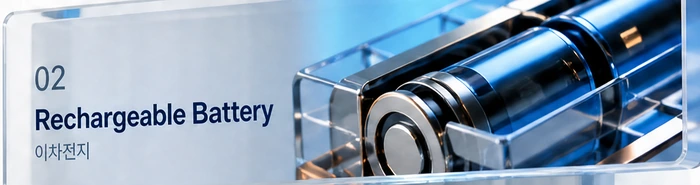
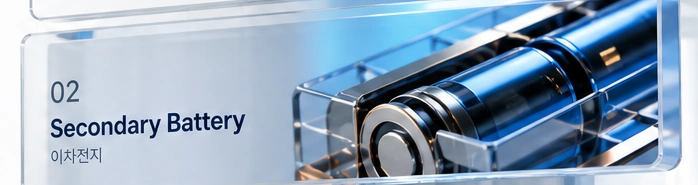
fix: 모바일 교수진 카드 최적화(사진 미크롭 비율, 성함·주제 집중, 프로필/연구실 1줄화) 및 PC 이차전지 순정 복원, 헤더 영문뱃지 제거 (v3.4)

diff --git a/assets/css/style.css b/assets/css/style.css
@@ -709,6 +709,9 @@ input[type="search"]::-webkit-search-decoration { -webkit-appearance: none; appe
 .lab-contact svg, .lab-contact i { width: 12px; height: 12px; flex-shrink: 0; color: #6B7280; }
 .lab-contact a { overflow: hidden; text-overflow: ellipsis; white-space: nowrap; }
 .lab-contact a:hover { color: var(--navy); text-decoration: underline; }
+.btn-label-desktop { display: inline; }
+.btn-label-mobile { display: none; }
+
 .lab-actions {
   display: flex; align-items: center; justify-content: space-between; gap: 8px;
   margin-top: auto; padding-top: 12px; border-top: 1px solid var(--line-soft);
@@ -1312,14 +1315,88 @@ body.is-admin .notice-head .m { display: block; text-align: right; }
     grid-template-columns: repeat(2, minmax(0, 1fr)) !important;
     gap: 12px;
   }
-  .lab-photo { height: 135px; }
-  .lab-body { padding: 12px 10px; }
-  .lab-name { font-size: 14.5px; }
-  .lab-title { font-size: 11px; margin-bottom: 4px; }
-  .lab-room { font-size: 10.5px; margin-bottom: 6px; }
-  .lab-tags { gap: 3px; margin-bottom: 6px; }
-  .lab-tag { font-size: 9.5px; padding: 1px 5px; }
-  .lab-action { font-size: 11px; margin-top: 6px; padding-top: 6px; }
+  .btn-label-desktop { display: none !important; }
+  .btn-label-mobile { display: inline !important; }
+
+  /* Mobile Faculty Cards: Portrait aspect ratio so face is never cut off */
+  .lab-card {
+    display: flex;
+    flex-direction: column;
+    height: 100%;
+  }
+  .lab-photo {
+    height: auto !important;
+    aspect-ratio: 1 / 1.15 !important;
+    border-radius: 4px 4px 0 0;
+  }
+  .lab-photo img {
+    width: 100%;
+    height: 100%;
+    object-fit: cover !important;
+    object-position: top center !important;
+  }
+  .lab-info {
+    padding: 10px 9px 12px !important;
+    gap: 4px !important;
+    display: flex;
+    flex-direction: column;
+    flex: 1;
+  }
+  .lab-name-row {
+    display: flex;
+    align-items: baseline;
+    gap: 4px;
+    flex-wrap: wrap;
+  }
+  .lab-name {
+    font-size: 14.5px !important;
+    font-weight: 700 !important;
+    letter-spacing: -0.02em;
+  }
+  .lab-title {
+    font-size: 11px !important;
+    color: #64748b !important;
+  }
+  .lab-field {
+    font-size: 11px !important;
+    line-height: 1.45 !important;
+    color: #4b5563 !important;
+    display: -webkit-box !important;
+    -webkit-line-clamp: 2 !important;
+    -webkit-box-orient: vertical !important;
+    overflow: hidden !important;
+    min-height: 32px;
+    margin-bottom: 2px;
+  }
+  /* Hide minor details on mobile so only name and research topic show */
+  .lab-card .lab-lab,
+  .lab-card .lab-contact {
+    display: none !important;
+  }
+  /* Actions: [프로필 →] [연구실 ↗] on 1 neat line */
+  .lab-actions {
+    display: flex !important;
+    flex-direction: row !important;
+    align-items: center !important;
+    justify-content: space-between !important;
+    gap: 4px !important;
+    margin-top: auto !important;
+    padding-top: 8px !important;
+    border-top: 1px solid #f1f5f9 !important;
+  }
+  .lab-more,
+  .lab-home {
+    font-size: 10.5px !important;
+    padding: 3px 5px !important;
+    white-space: nowrap !important;
+    letter-spacing: -0.02em !important;
+    flex-shrink: 0;
+  }
+  .lab-more svg, .lab-more i,
+  .lab-home svg, .lab-home i {
+    width: 11px !important;
+    height: 11px !important;
+  }
   .career-grid { grid-template-columns: repeat(2, minmax(0, 1fr)); gap: 10px; }
   .career-item { padding: 14px 12px; }
   .career-item h4 { font-size: 13.5px; margin-bottom: 4px; }

diff --git a/index.html b/index.html
@@ -194,10 +194,6 @@
 <section class="hero hero--v2" aria-labelledby="heroTitle">
   <div class="wrap hero-inner">
     <div class="hero-copy" data-aos="fade-right">
-      <div class="hero-badge">
-        <span class="hero-badge-dot"></span>
-        <span class="hero-badge-text">SOONGSIL CHEMICAL ENGINEERING</span>
-      </div>
       <h1 id="heroTitle">
         분자를 설계하고,<br>
         <span class="hero-h1-accent">산업의 다음</span>을 만든다
@@ -238,11 +234,11 @@
           </picture>
         </a>
 
-        <!-- 02 Rechargeable Batteries -->
-        <a href="#labs" class="pillar-card" data-filter="배터리" aria-label="02 Rechargeable Batteries 이차전지 연구실 둘러보기">
+        <!-- 02 Secondary Battery -->
+        <a href="#labs" class="pillar-card" data-filter="배터리" aria-label="02 Secondary Battery 이차전지 연구실 둘러보기">
           <picture>
-            <source srcset="assets/hero/card_battery.webp?v=20261112_rc" type="image/webp">
-            <img src="assets/hero/card_battery.png?v=20261112_rc" alt="02 Rechargeable Batteries 고용량 이차전지 및 에너지 저장·변환" width="698" height="185" loading="eager">
+            <source srcset="assets/hero/card_battery.webp?v=3.4" type="image/webp">
+            <img src="assets/hero/card_battery.png?v=3.4" alt="02 Secondary Battery 고용량 이차전지 및 에너지 저장·변환" width="698" height="185" loading="eager">
           </picture>
         </a>
 

diff --git a/assets/js/app.js b/assets/js/app.js
@@ -205,8 +205,8 @@
             <span>${ic('mail')}<a href="mailto:${esc(p.email)}">${esc(p.email)}</a></span>
           </div>
           <div class="lab-actions">
-            <button class="lab-more" type="button" data-profile="${esc(p.id)}">프로필 보기 ${ic('arrow-right')}</button>
-            ${p.labUrl ? `<span class="lab-home">랩 홈페이지 ${ic('external-link')}</span>` : ''}
+            <button class="lab-more" type="button" data-profile="${esc(p.id)}"><span class="btn-label-desktop">프로필 보기</span><span class="btn-label-mobile">프로필</span> ${ic('arrow-right')}</button>
+            ${p.labUrl ? `<span class="lab-home"><span class="btn-label-desktop">랩 홈페이지</span><span class="btn-label-mobile">연구실</span> ${ic('external-link')}</span>` : ''}
             ${adminBtns('prof', p)}
           </div>
         </div>

diff --git a/service-worker.js b/service-worker.js
@@ -1,5 +1,5 @@
 // 숭실대학교 화학공학과 공식 PWA Service Worker (v3.2 Network-First)
-const CACHE_NAME = 'ssu-cheme-v3.3';
+const CACHE_NAME = 'ssu-cheme-v3.4';
 const ASSETS_TO_CACHE = [
   './',
   './index.html',
